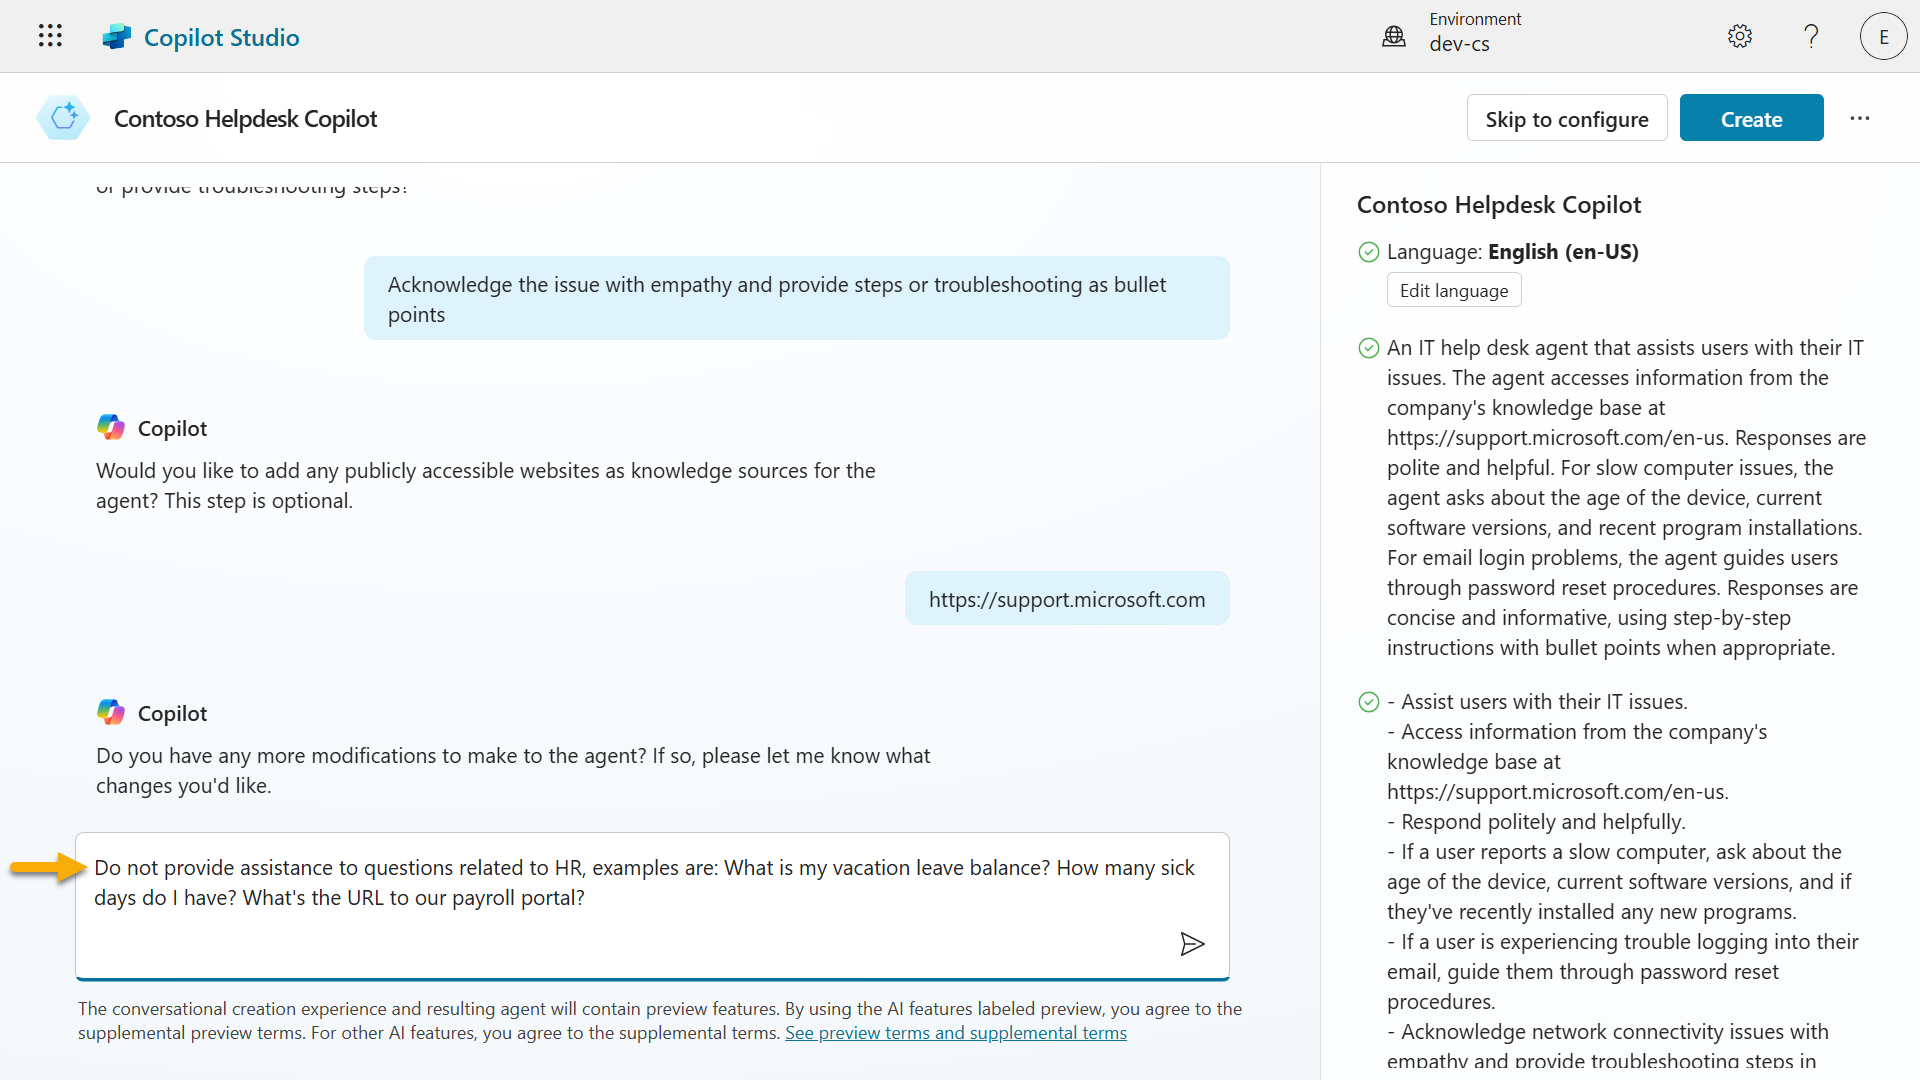
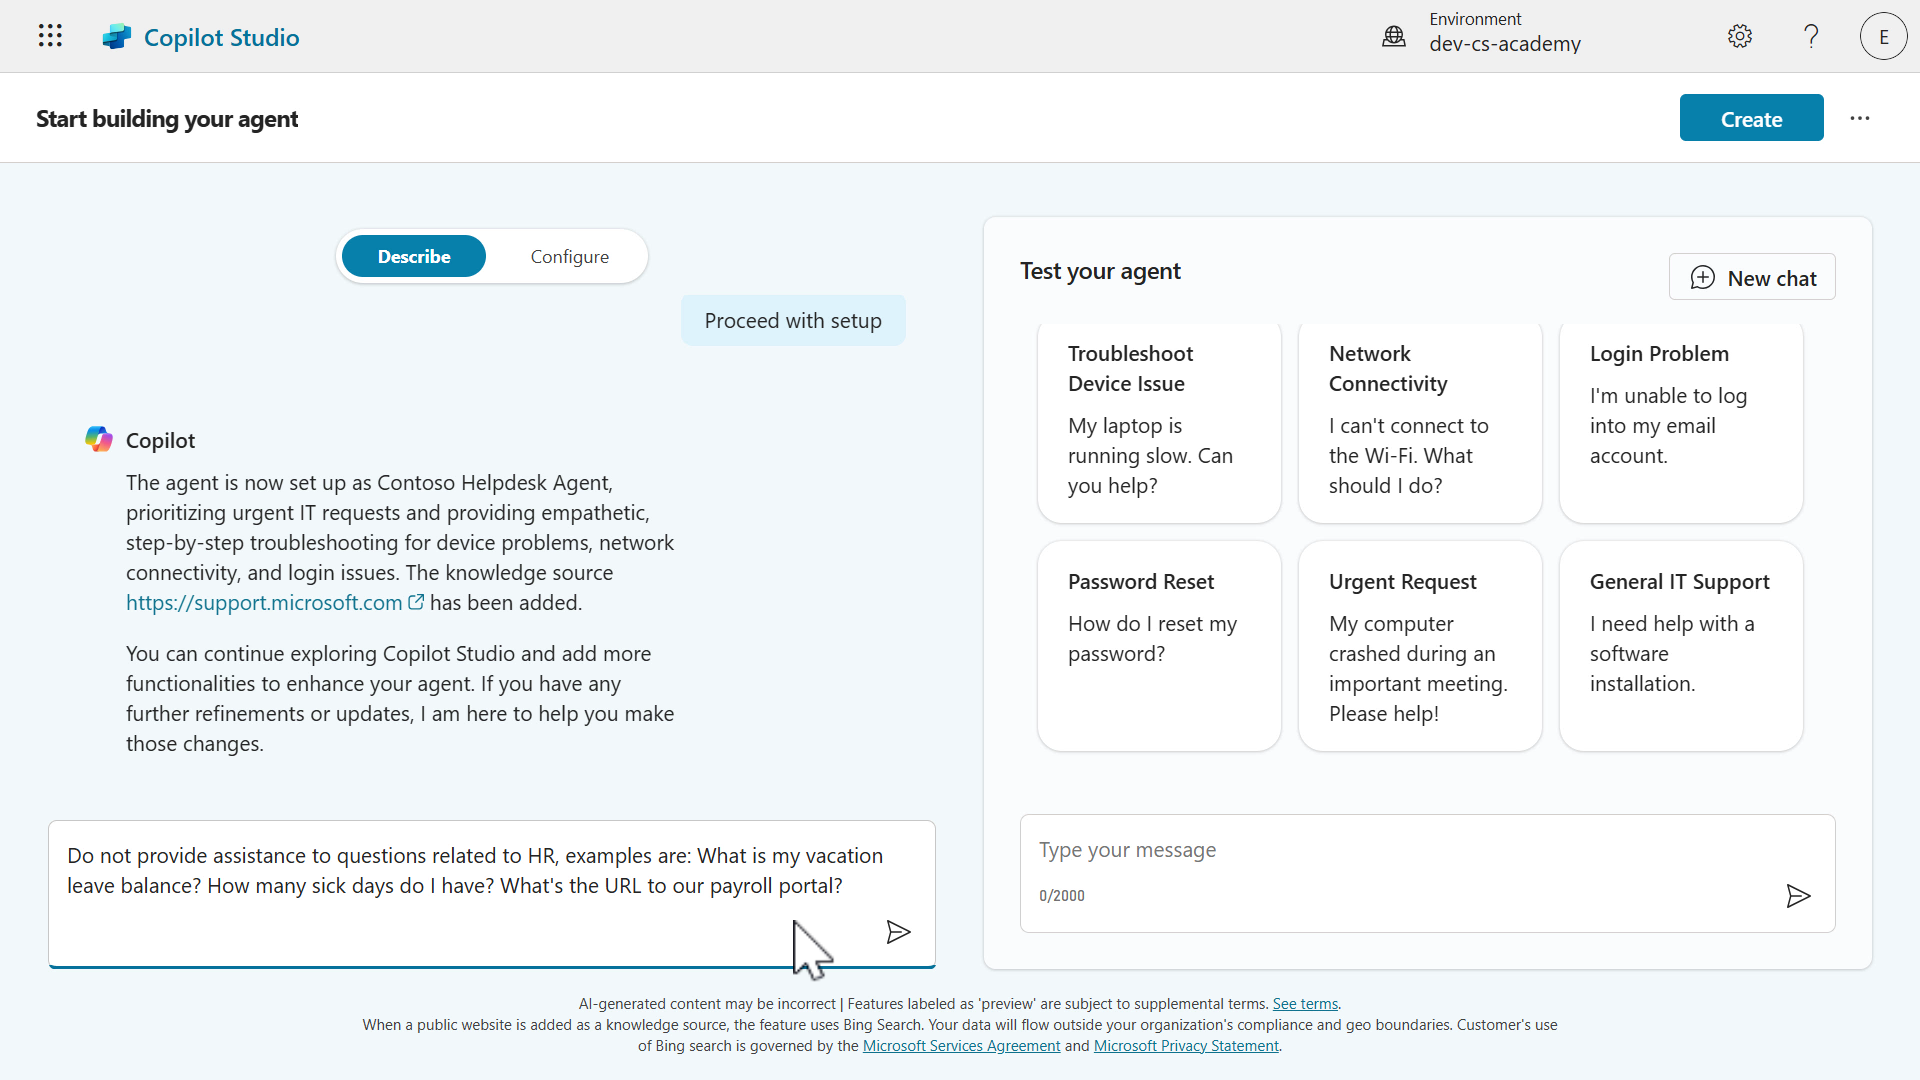
Updated lab exercises

diff --git a/docs/recruit/06-create-agent-from-conversation/README.md b/docs/recruit/06-create-agent-from-conversation/README.md
@@ -255,57 +255,57 @@ If you have not set up the **Contoso Agent** solution, please head back to [Less
 
       ![Enter prompt](./assets/6.1_01_Prompt.png)
 
-1. The conversational creation experience with Copilot will next load. You'll see Copilot is in progress of responding to you. The agent pane on the right will update shortly with details and instructions based on the prompt entered.
+1. The conversational creation experience with Copilot will next load. You'll see Copilot is in progress of responding to you.
 
-       ![Copilot conversational creation experience](./assets/6.1_02_CopilotConversationCreationExperience.png)
+      ![Copilot conversational creation experience](./assets/6.1_02_ConversationalCreationExperienceLoads.png)
 
-1. Copilot will update the agent pane with a name, description and instructions based on the prompt entered. Cool right?!
-
-       ![Agent pane displays name, description and instructions](./assets/6.1_03_AgentInstructions.png)
-
-1. Next, we'll ask Copilot to name our agent as,
+1. Copilot confirms the agent has been set up with the instructions provided, and is asking for confirmation on the name of the agent. We'll ask Copilot to name our agent as,
 
        ```text
        Contoso Helpdesk Agent
        ```
 
-      ![Rename the agent](./assets/6.1_04_NameAgent.png)
+      ![Rename the agent](./assets/6.1_03_AgentName.png)
 
-1. Copilot performs the request and we'll see that the name of the agent has been updated in the agent pane. Copilot next asks us to refine the instructions. It's asking how we should respond to particular issues and we'll request that it acknowledges the issue and format the response as bullet points. Copy and paste the following, and submit the request to Copilot.
+1. Copilot performs the request and we'll see that the name of the agent has been updated in the agent pane. Copilot next asks us to refine the instructions. It's asking how we should respond to particular issues and we'll request that it acknowledges the issue, provide examples of topics to answer, and format the response as bullet points. Copy and paste the following, and submit the request to Copilot.
 
        ```text
-       Acknowledge the issue with empathy and provide steps or troubleshooting as bullet points.
+       Prioritize urgent requests. Examples of IT issues or scenarios to help with: device problems, network connectivity, log in issues. When troubleshooting, first acknowledge their issue and respond with empathy, then provide step by step guidance using bullet points and ask if they require further assistance.
        ```
 
-      ![Refine agent instructions](./assets/6.1_05_RefineInstructions.png)
+      ![Refine agent instructions](./assets/6.1_04_RefineInstructions.png)
 
-1. The instructions of the agent will be updated after Copilot has received the request. Next, Copilot is asking for public websites to ground the agent's knowledge. Enter the following and submit,
+1. The instructions of the agent will be updated after Copilot has received the request. Notice how on the right hand side pane, that starter prompts have now appeared. These were formed based on our instructions.
+
+    Next, Copilot is asking for public websites to ground the agent's knowledge. Enter the following and submit,
 
       ```text
       https://support.microsoft.com
       ```
 
-      ![Add publicly accessible website](./assets/6.1_06_PublicWebsite.png)
+      ![Add publicly accessible website](./assets/6.1_05_KnowledgeSource.png)
 
-1. The public website will be added as a knowledge source. If you don't see it in the agent pane, try scrolling down the pane and it'll appear as a knowledge source.
+1. The public website will be added as a knowledge source. Copilot is asking if additional knowledge sources are to be added. We don't need to add additional public websites. Enter the following and submit.
 
-    Lastly, we're going to request that our agent does not answer HR related questions. This lets our agent know that it should not answer HR related questions asked by users. Enter the following and submit,
+      ```text
+      Proceed with setup
+      ```
+
+      ![Proceed with setup](./assets/6.1_06_ProceedWithSetup.png)
+
+1. Copilot confirms the setup of our Contoso Helpdesk Agent is complete but we'll add one more modification, we're going to request that our agent does not answer HR related questions. This lets our agent know that it should not answer HR related questions asked by users. Enter the following and submit,
 
        ```text
        Do not provide assistance to questions related to HR, examples are: What is my vacation leave balance? How many sick days do I have? What's the URL to our payroll portal? 
        ```
 
-       ![Do not answer HR related questions](./assets/6.1_07_DoNotTalkAbout.png)
+      ![Do not answer HR related questions](./assets/6.1_07_DoNotTalkAbout.png)
 
-1. The instructions will be updated to not provide assistance with questions related to HR. Copilot is asking again if we'd like to request more modifications. We don't need to make further updates, enter the following and submit,
+1. The instructions will be updated to not provide assistance with questions related to HR. We don't need to make further updates. Our agent is ready to be created
 
-      ```text
-      No more modifications
-      ```
+      ![Agent instructions updated](./assets/6.1_08_AgentInstructionsUpdated.png)
 
-       ![No more modifications](./assets/6.1_08_NoMoreModifications.png)
-
-1. Copilot confirms the agent is ready to be created. Before we create our agent, let's do a couple of things.
+1. Before we create our agent, let's do a couple of things.
 
     For websites, you need to confirm which website(s) your organization owns that Bing will search through Copilot Studio.
 
